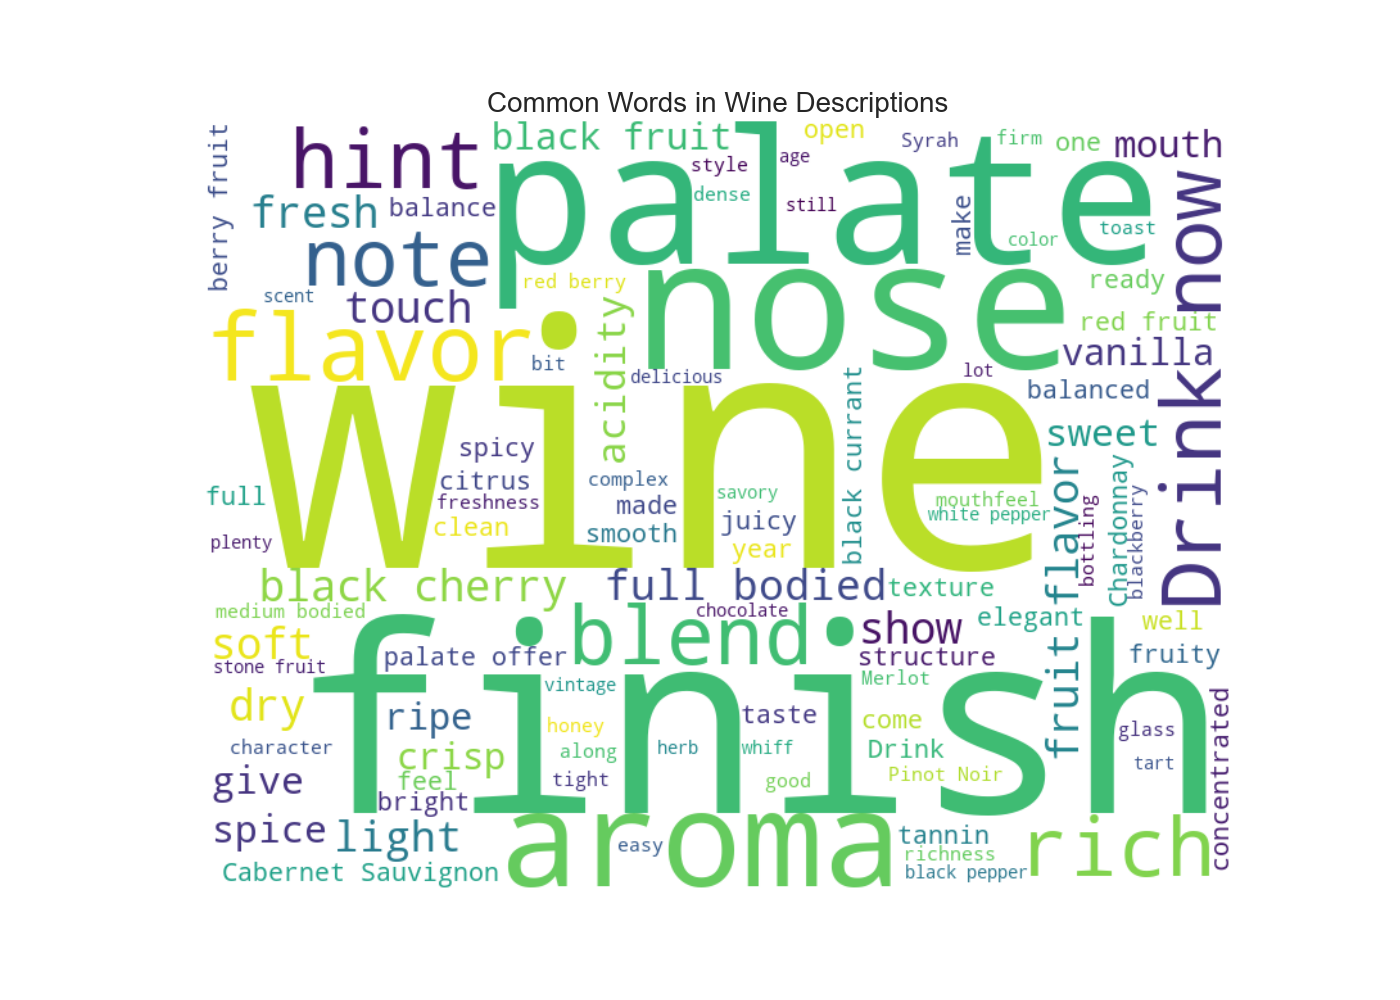
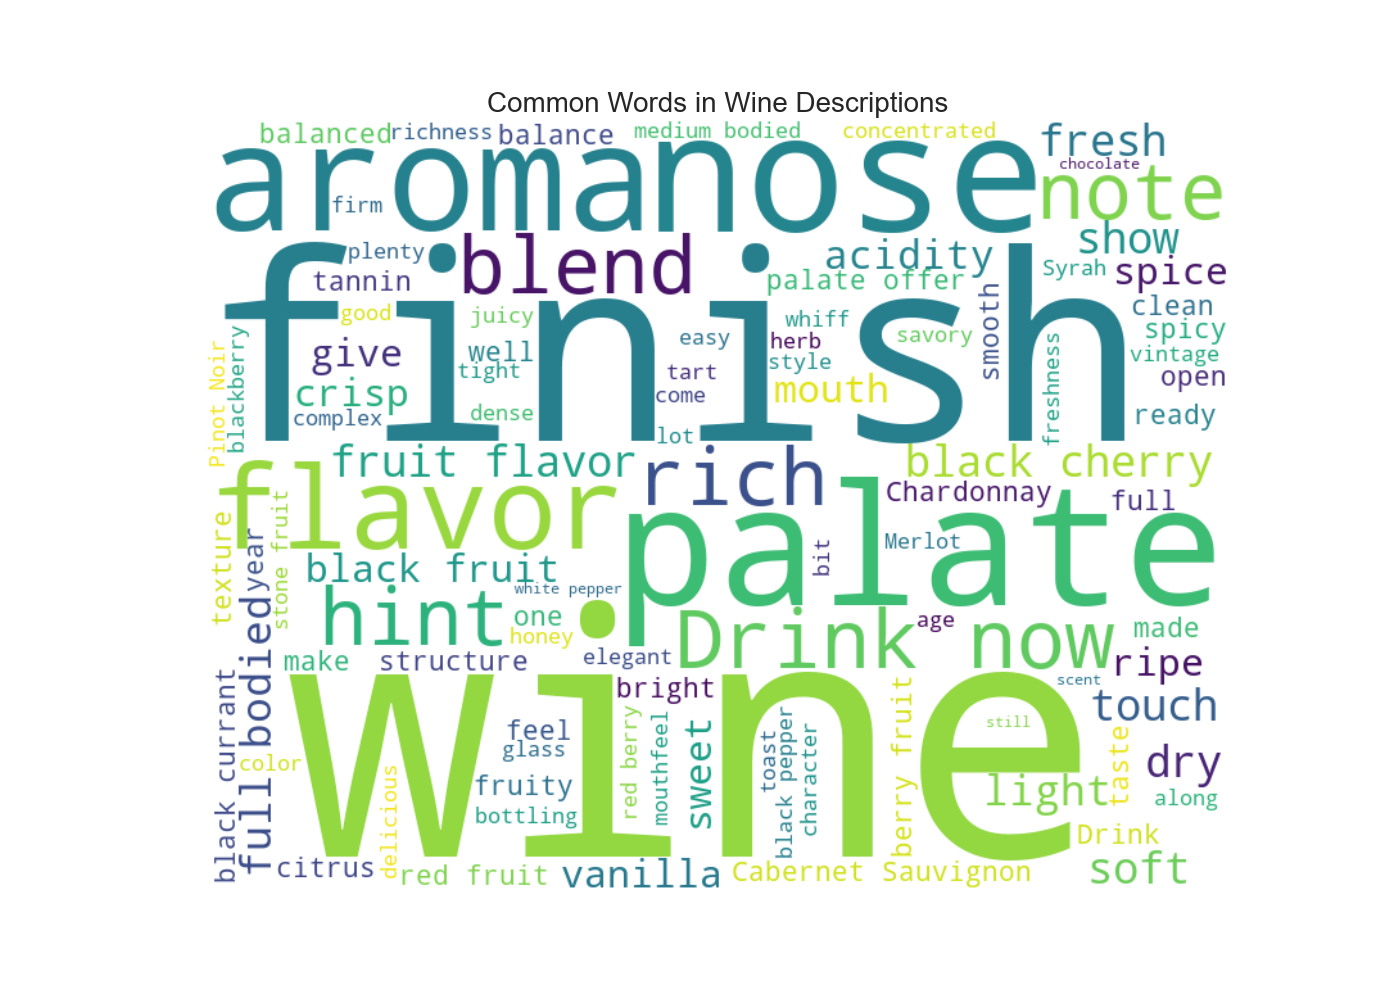
tfidf tests

diff --git a/tfid.py b/tfid.py
@@ -1,0 +1,24 @@
+#https://scikit-learn.org/stable/modules/generated/sklearn.feature_extraction.text.TfidfVectorizer.html
+import pandas as pd
+from sklearn.feature_extraction.text import TfidfVectorizer
+from sklearn.feature_extraction.text import ENGLISH_STOP_WORDS
+import os
+
+os.makedirs('visualizations', exist_ok=True)
+
+file_path = "winemag-data-130k-v2.csv"
+df = pd.read_csv(file_path)
+
+#10 desciptions
+df = df[['description']].dropna().head(10)
+
+#features; exclude the unwanted words
+custom_stopwords = list(ENGLISH_STOP_WORDS.union(['2012', '2016', 'alongside', 'aromas', 'certainly', 'include', 'notes', 'offering', 'offers', 'palate']))
+
+vectorizer = TfidfVectorizer(stop_words=custom_stopwords)
+X = vectorizer.fit_transform(df['description'])
+
+#Excel File Please
+tfidf_df = pd.DataFrame(X.toarray(), columns=vectorizer.get_feature_names_out())
+tfidf_df.to_excel('visualizations/tfidf_matrix.xlsx', index=False)
+print("Saved TF-IDF matrix to visualizations/tfidf_matrix.xlsx")
